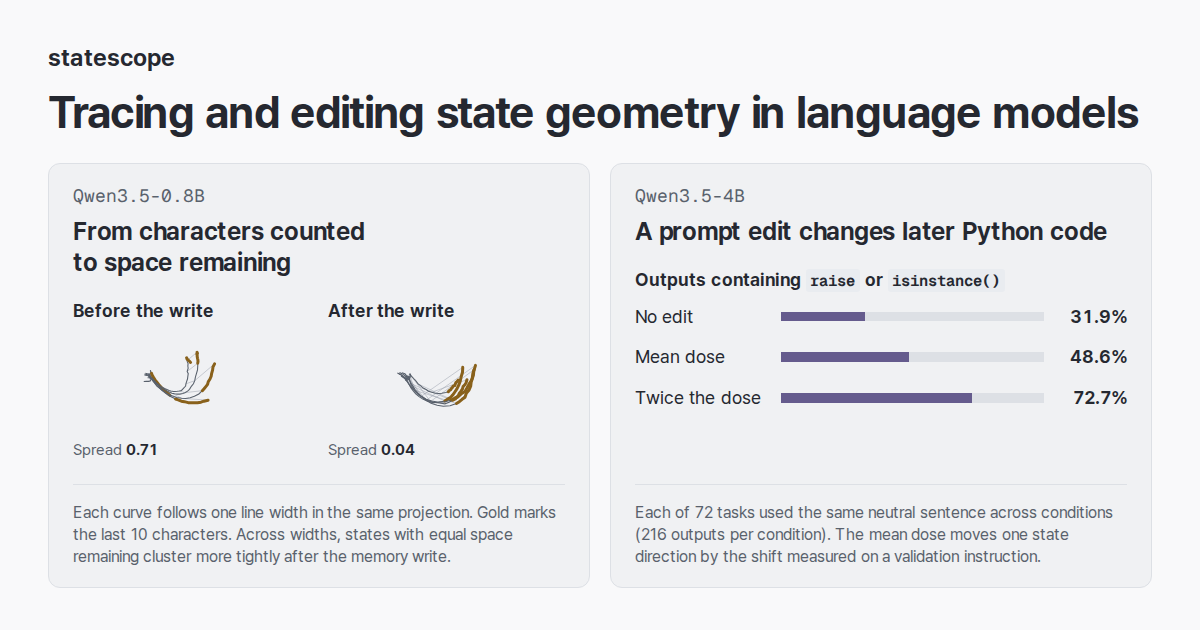
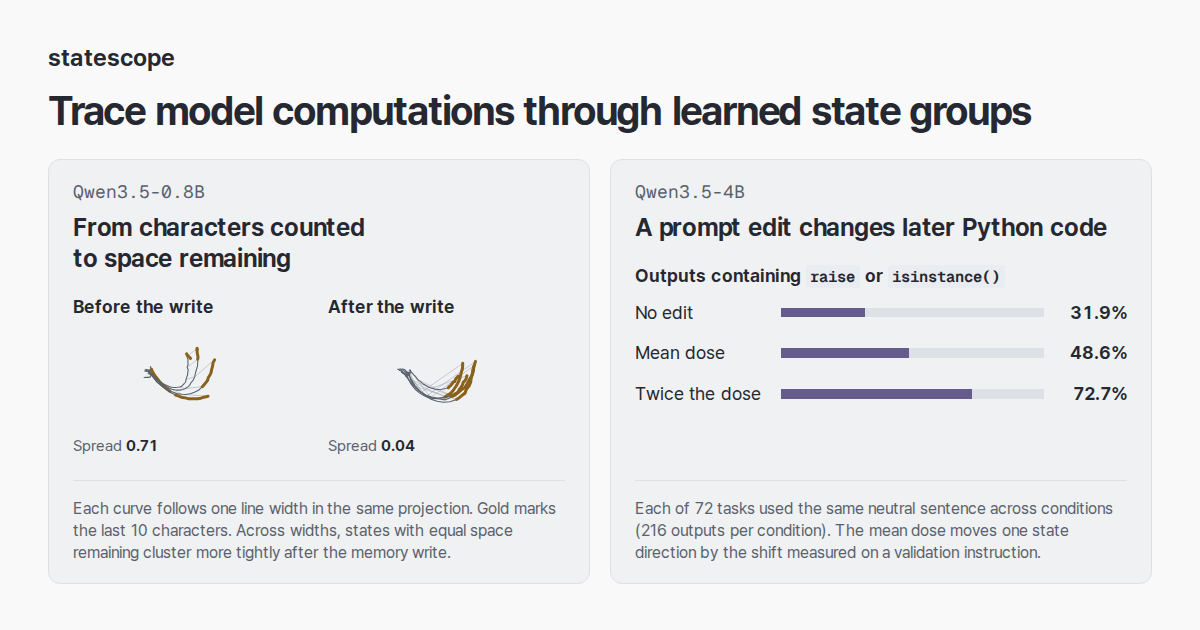
Lead with learned state groups as units for circuit tracing

diff --git a/tools/page.template.html b/tools/page.template.html
@@ -8,11 +8,11 @@
 <head>
 <meta charset="utf-8">
 <meta name="viewport" content="width=device-width, initial-scale=1">
-<title>statescope: Tracing and editing state geometry in language models</title>
-<meta name="description" content="Explore what language models represent in their hidden states, which operations read those states, and how editing them changes predictions and generated code.">
+<title>statescope: Trace model computations through learned state groups</title>
+<meta name="description" content="Follow a signal through a learned state group, identify the operations that read it, and test how editing the state changes a language model’s predictions.">
 <meta property="og:type" content="website">
-<meta property="og:title" content="statescope: Tracing and editing state geometry in language models">
-<meta property="og:description" content="Explore what language models represent in their hidden states, which operations read those states, and how editing them changes predictions and generated code.">
+<meta property="og:title" content="statescope: Trace model computations through learned state groups">
+<meta property="og:description" content="Follow a signal through a learned state group, identify the operations that read it, and test how editing the state changes a language model’s predictions.">
 <meta property="og:site_name" content="statescope">
 <meta property="og:url" content="https://statescope.ai/">
 <meta property="og:image" content="https://statescope.ai/assets/og-card.png">
@@ -21,8 +21,8 @@
 <meta property="og:image:alt" content="Two Qwen experiments: line-end states converge after a memory write, and editing prompt states increases the frequency of raise or isinstance in generated code.">
 <meta name="twitter:card" content="summary_large_image">
 <meta name="twitter:image" content="https://statescope.ai/assets/og-card.png">
-<meta name="twitter:title" content="statescope: Tracing and editing state geometry in language models">
-<meta name="twitter:description" content="Explore what language models represent in their hidden states, which operations read those states, and how editing them changes predictions and generated code.">
+<meta name="twitter:title" content="statescope: Trace model computations through learned state groups">
+<meta name="twitter:description" content="Follow a signal through a learned state group, identify the operations that read it, and test how editing the state changes a language model’s predictions.">
 <meta name="color-scheme" content="light dark">
 <link rel="icon" href="assets/favicon.svg" type="image/svg+xml">
 <link rel="preload" href="assets/fonts/site-sans-var.woff2" as="font" type="font/woff2" crossorigin>
@@ -36,8 +36,8 @@
 
 <header class="hero" id="top">
   <p class="project-name">statescope</p>
-  <h1>Tracing and editing state geometry in language models</h1>
-  <p class="sets">What does a language model keep in its hidden states? We trace how heads and MLPs use that information, then edit the states to see how the model’s predictions change. The current release includes state and MLP dictionaries for every layer of Qwen3.5-0.8B and Qwen3.5-4B, along with the reader.</p>
+  <h1>Trace model computations through learned state groups</h1>
+  <p class="sets">statescope pairs a dictionary of multidimensional states with a dictionary of MLP operations. We can follow a signal within one group, identify the operations that read it, and edit the state to test its effect on a prediction.</p>
   <nav class="links" aria-label="Code and weights">
     <a class="pill" href="https://github.com/mconcat/statescope"><svg viewBox="0 0 16 16" width="16" height="16" aria-hidden="true"><path d="M5.6 3.6 1.6 8l4 4.4M10.4 3.6l4 4.4-4 4.4" fill="none" stroke="currentColor" stroke-width="1.6" stroke-linecap="round" stroke-linejoin="round"/></svg>Code</a>
     <a class="pill" href="https://huggingface.co/mconcat/statescope-qwen3.5-4b"><svg viewBox="0 0 16 16" width="16" height="16" aria-hidden="true"><path d="M8 1.8 14 5 8 8.2 2 5zM2 8l6 3.2L14 8M2 11l6 3.2 6-3.2" fill="none" stroke="currentColor" stroke-width="1.4" stroke-linejoin="round"/></svg>Weights for <span class="nw">Qwen3.5-4B</span></a>
@@ -49,7 +49,8 @@
 
 <section class="wrap research-overview" aria-labelledby="abstract">
   <h2 id="abstract">What changes when we edit a state?</h2>
-  <p class="research-intro">In Qwen3.5-0.8B, editing width memory shifts <a href="#example">line-break preference</a> toward earlier positions. <!--if geom-->In Qwen3.5-4B, editing neutral prompt tokens changes <a href="#prompt-states">the code generated later</a>.<!--endif geom--></p>
+  <p class="research-intro">We trained the state and MLP dictionaries separately, without line-counting labels or hand-picked counting directions. Across three line-wrapping conditions in Qwen3.5-0.8B, we found <a href="https://github.com/mconcat/statescope#what-the-baselines-show">the same four-dimensional state group</a>. Its coordinates tracked character count, and different MLP transforms read different parts of that range.</p>
+  <p class="research-intro">Editing the model’s memory of line width shifts <a href="#example">line-break preference</a> toward earlier positions. <!--if geom-->In Qwen3.5-4B, editing one state direction as the model reads a neutral prompt changes <a href="#prompt-states">the Python code it generates later</a>.<!--endif geom--></p>
   <div class="result-pair">
 <!--if trace-->
     <figure id="fig-overview" class="result">
@@ -770,10 +771,10 @@ python demo/line_count.py --release &lt;folder&gt; --device cuda:0 --out &lt;fol
 <section class="band tint" aria-labelledby="cite">
   <div class="wrap mid">
     <h2 id="cite">How to cite</h2>
-    <p class="citation">mconcat. statescope: Tracing and editing state geometry in language models. 2026. <a href="https://github.com/mconcat/statescope">https://github.com/mconcat/statescope</a></p>
+    <p class="citation">mconcat. statescope: Trace model computations through learned state groups. 2026. <a href="https://github.com/mconcat/statescope">https://github.com/mconcat/statescope</a></p>
     <div class="codeblock"><span class="lang">bibtex</span><pre><code>@misc{statescope,
   author = {mconcat},
-  title = {statescope: Tracing and editing state geometry in language models},
+  title = {statescope: Trace model computations through learned state groups},
   year = {2026},
   url = {https://github.com/mconcat/statescope},
   note = {Weights: https://huggingface.co/mconcat/statescope-qwen3.5-4b and https://huggingface.co/mconcat/statescope-qwen3.5-0.8b}

diff --git a/index.html b/index.html
@@ -4,11 +4,11 @@
 <head>
 <meta charset="utf-8">
 <meta name="viewport" content="width=device-width, initial-scale=1">
-<title>statescope: Tracing and editing state geometry in language models</title>
-<meta name="description" content="Explore what language models represent in their hidden states, which operations read those states, and how editing them changes predictions and generated code.">
+<title>statescope: Trace model computations through learned state groups</title>
+<meta name="description" content="Follow a signal through a learned state group, identify the operations that read it, and test how editing the state changes a language model’s predictions.">
 <meta property="og:type" content="website">
-<meta property="og:title" content="statescope: Tracing and editing state geometry in language models">
-<meta property="og:description" content="Explore what language models represent in their hidden states, which operations read those states, and how editing them changes predictions and generated code.">
+<meta property="og:title" content="statescope: Trace model computations through learned state groups">
+<meta property="og:description" content="Follow a signal through a learned state group, identify the operations that read it, and test how editing the state changes a language model’s predictions.">
 <meta property="og:site_name" content="statescope">
 <meta property="og:url" content="https://statescope.ai/">
 <meta property="og:image" content="https://statescope.ai/assets/og-card.png">
@@ -17,8 +17,8 @@
 <meta property="og:image:alt" content="Two Qwen experiments: line-end states converge after a memory write, and editing prompt states increases the frequency of raise or isinstance in generated code.">
 <meta name="twitter:card" content="summary_large_image">
 <meta name="twitter:image" content="https://statescope.ai/assets/og-card.png">
-<meta name="twitter:title" content="statescope: Tracing and editing state geometry in language models">
-<meta name="twitter:description" content="Explore what language models represent in their hidden states, which operations read those states, and how editing them changes predictions and generated code.">
+<meta name="twitter:title" content="statescope: Trace model computations through learned state groups">
+<meta name="twitter:description" content="Follow a signal through a learned state group, identify the operations that read it, and test how editing the state changes a language model’s predictions.">
 <meta name="color-scheme" content="light dark">
 <link rel="icon" href="assets/favicon.svg" type="image/svg+xml">
 <link rel="preload" href="assets/fonts/site-sans-var.woff2" as="font" type="font/woff2" crossorigin>
@@ -32,8 +32,8 @@
 
 <header class="hero" id="top">
   <p class="project-name">statescope</p>
-  <h1>Tracing and editing state geometry in language models</h1>
-  <p class="sets">What does a language model keep in its hidden states? We trace how heads and MLPs use that information, then edit the states to see how the model’s predictions change. The current release includes state and MLP dictionaries for every layer of Qwen3.5-0.8B and Qwen3.5-4B, along with the reader.</p>
+  <h1>Trace model computations through learned state groups</h1>
+  <p class="sets">statescope pairs a dictionary of multidimensional states with a dictionary of MLP operations. We can follow a signal within one group, identify the operations that read it, and edit the state to test its effect on a prediction.</p>
   <nav class="links" aria-label="Code and weights">
     <a class="pill" href="https://github.com/mconcat/statescope"><svg viewBox="0 0 16 16" width="16" height="16" aria-hidden="true"><path d="M5.6 3.6 1.6 8l4 4.4M10.4 3.6l4 4.4-4 4.4" fill="none" stroke="currentColor" stroke-width="1.6" stroke-linecap="round" stroke-linejoin="round"/></svg>Code</a>
     <a class="pill" href="https://huggingface.co/mconcat/statescope-qwen3.5-4b"><svg viewBox="0 0 16 16" width="16" height="16" aria-hidden="true"><path d="M8 1.8 14 5 8 8.2 2 5zM2 8l6 3.2L14 8M2 11l6 3.2 6-3.2" fill="none" stroke="currentColor" stroke-width="1.4" stroke-linejoin="round"/></svg>Weights for <span class="nw">Qwen3.5-4B</span></a>
@@ -45,7 +45,8 @@
 
 <section class="wrap research-overview" aria-labelledby="abstract">
   <h2 id="abstract"><a href="#abstract">What changes when we edit a state?</a></h2>
-  <p class="research-intro">In Qwen3.5-0.8B, editing width memory shifts <a href="#example">line-break preference</a> toward earlier positions. In Qwen3.5-4B, editing neutral prompt tokens changes <a href="#prompt-states">the code generated later</a>.</p>
+  <p class="research-intro">We trained the state and MLP dictionaries separately, without line-counting labels or hand-picked counting directions. Across three line-wrapping conditions in Qwen3.5-0.8B, we found <a href="https://github.com/mconcat/statescope#what-the-baselines-show">the same four-dimensional state group</a>. Its coordinates tracked character count, and different MLP transforms read different parts of that range.</p>
+  <p class="research-intro">Editing the model’s memory of line width shifts <a href="#example">line-break preference</a> toward earlier positions. In Qwen3.5-4B, editing one state direction as the model reads a neutral prompt changes <a href="#prompt-states">the Python code it generates later</a>.</p>
   <div class="result-pair">
 
     <figure id="fig-overview" class="result">
@@ -977,10 +978,10 @@ python demo/line_count.py --release &lt;folder&gt; --device cuda:0 --out &lt;fol
 <section class="band tint" aria-labelledby="cite">
   <div class="wrap mid">
     <h2 id="cite"><a href="#cite">How to cite</a></h2>
-    <p class="citation">mconcat. statescope: Tracing and editing state geometry in language models. 2026. <a href="https://github.com/mconcat/statescope">https://github.com/mconcat/statescope</a></p>
+    <p class="citation">mconcat. statescope: Trace model computations through learned state groups. 2026. <a href="https://github.com/mconcat/statescope">https://github.com/mconcat/statescope</a></p>
     <div class="codeblock"><span class="lang">bibtex</span><pre><code>@misc{statescope,
   author = {mconcat},
-  title = {statescope: Tracing and editing state geometry in language models},
+  title = {statescope: Trace model computations through learned state groups},
   year = {2026},
   url = {https://github.com/mconcat/statescope},
   note = {Weights: https://huggingface.co/mconcat/statescope-qwen3.5-4b and https://huggingface.co/mconcat/statescope-qwen3.5-0.8b}

diff --git a/tools/build_card.py b/tools/build_card.py
@@ -22,7 +22,7 @@ def main():
         page.add_style_tag(content="""
           body { box-sizing: border-box; padding: 38px 48px; width: 1200px; height: 630px; }
           .project-name { font-size: 24px; text-align: left; }
-          h1 { margin: 10px 0 28px; font-size: 44px; text-align: left; }
+          h1 { margin: 10px 0 28px; font-size: 40px; text-align: left; }
           .result-pair { gap: 20px; }
           .result-pair .result { padding: 20px 24px; }
           .result-model { font-size: 18px; }
